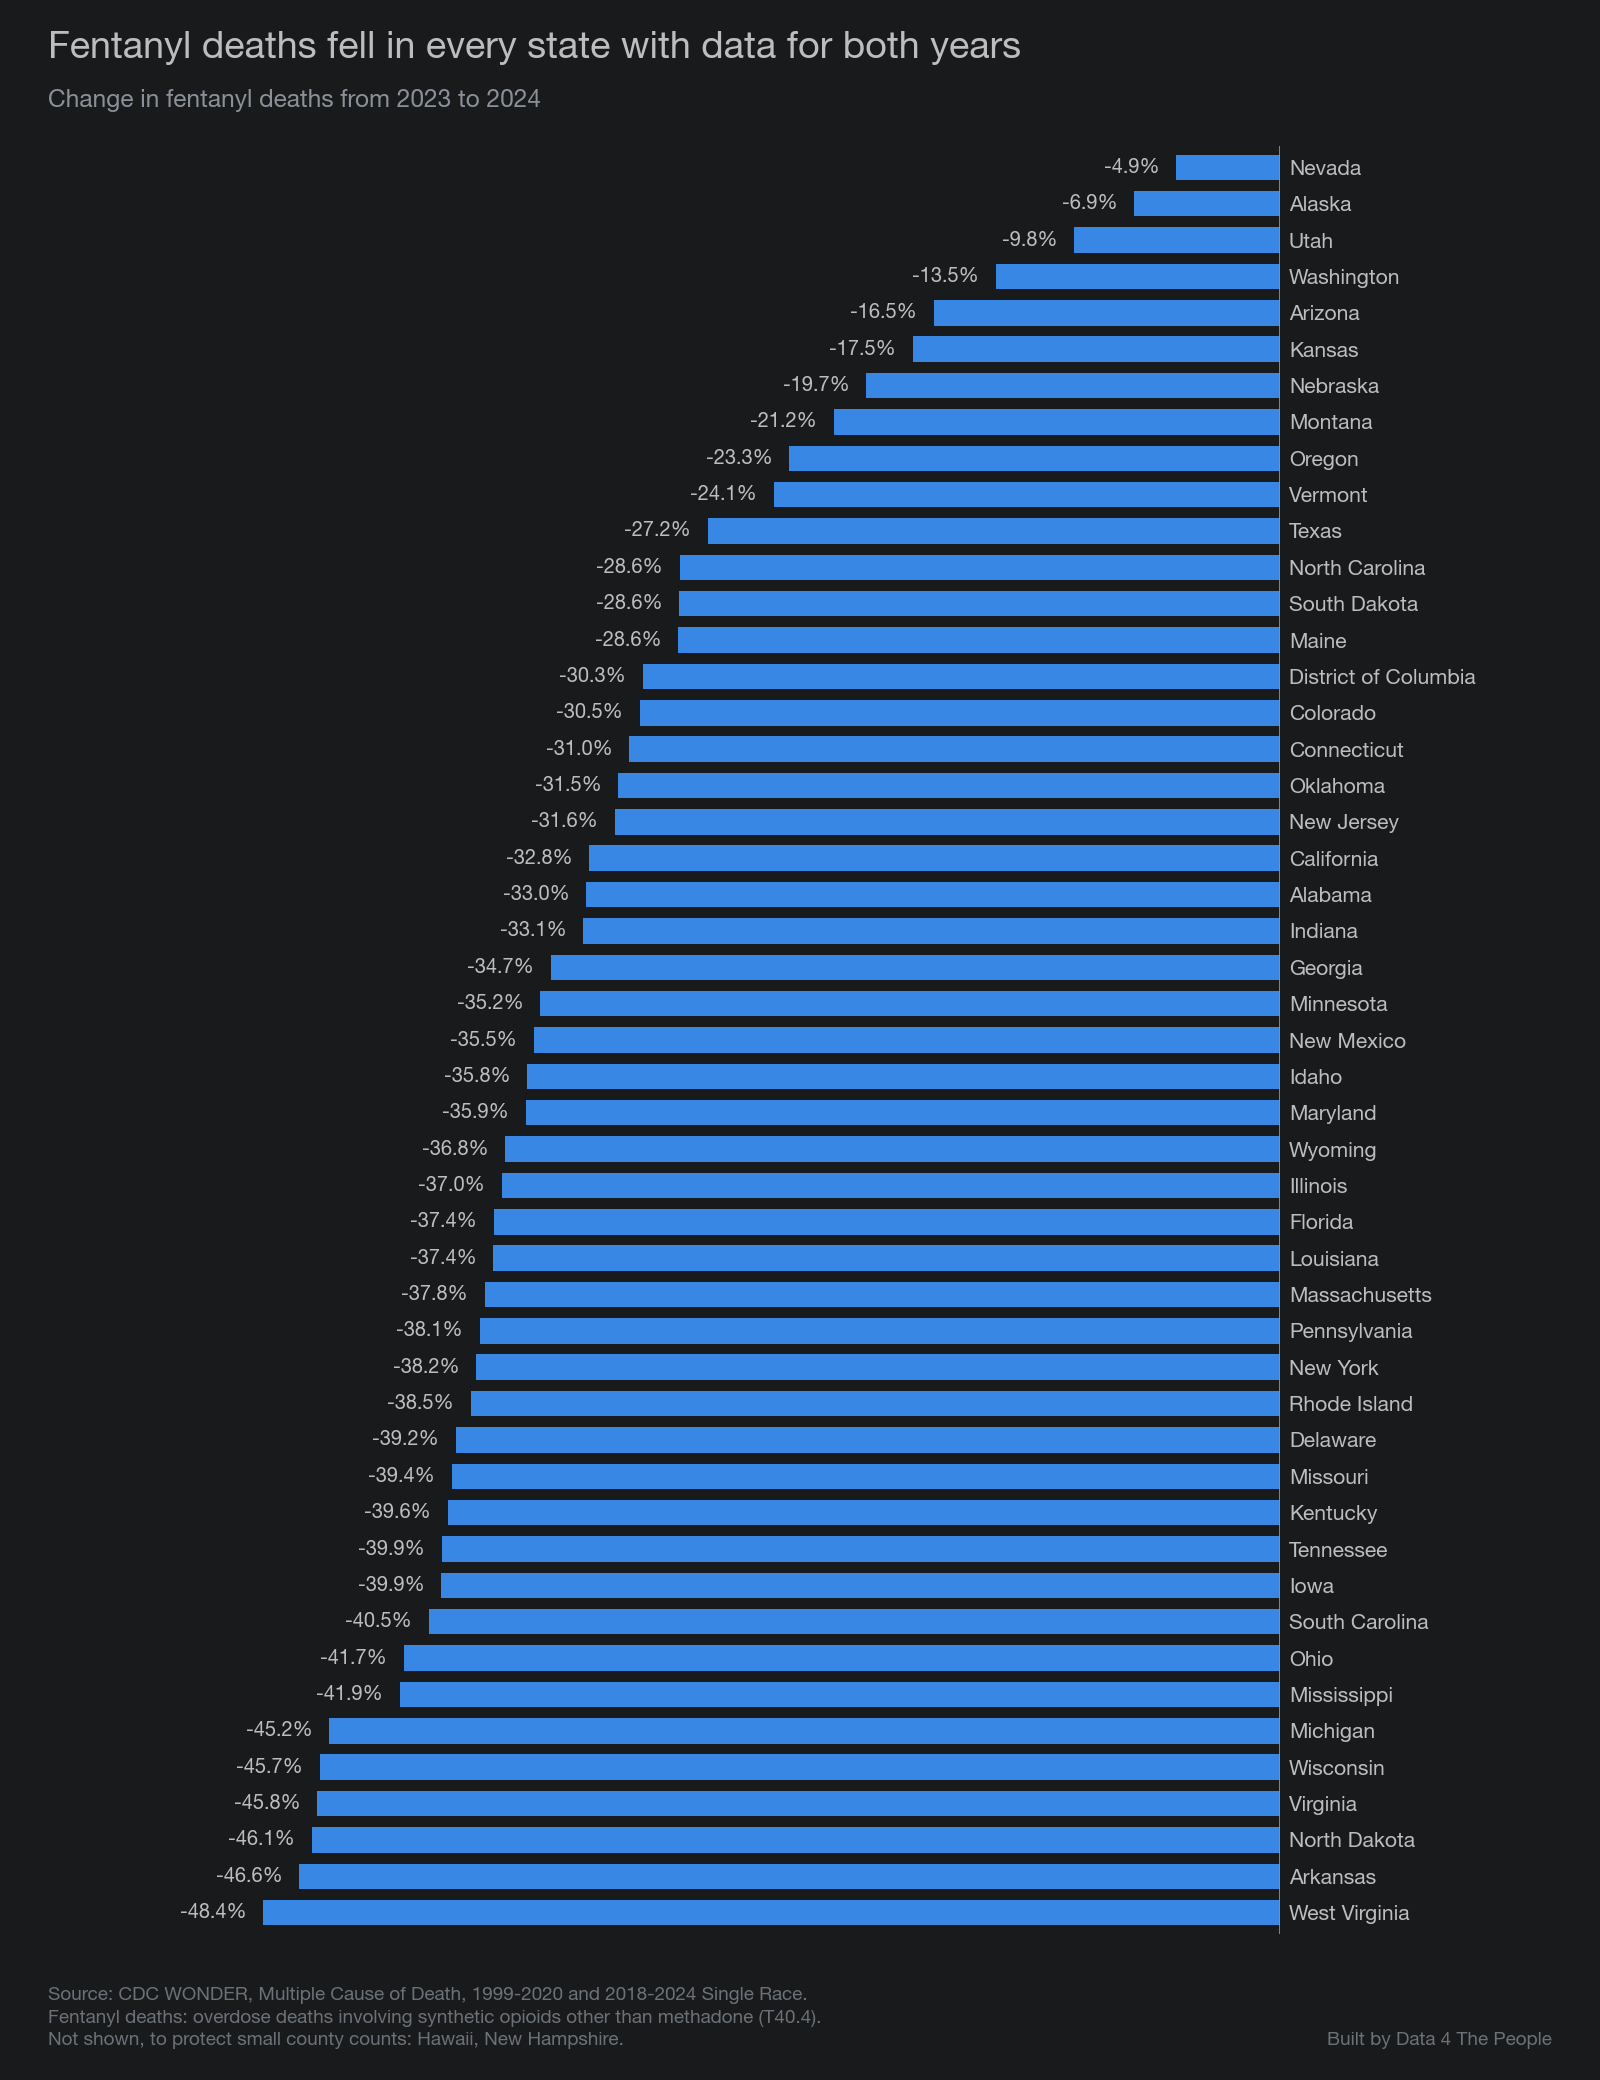
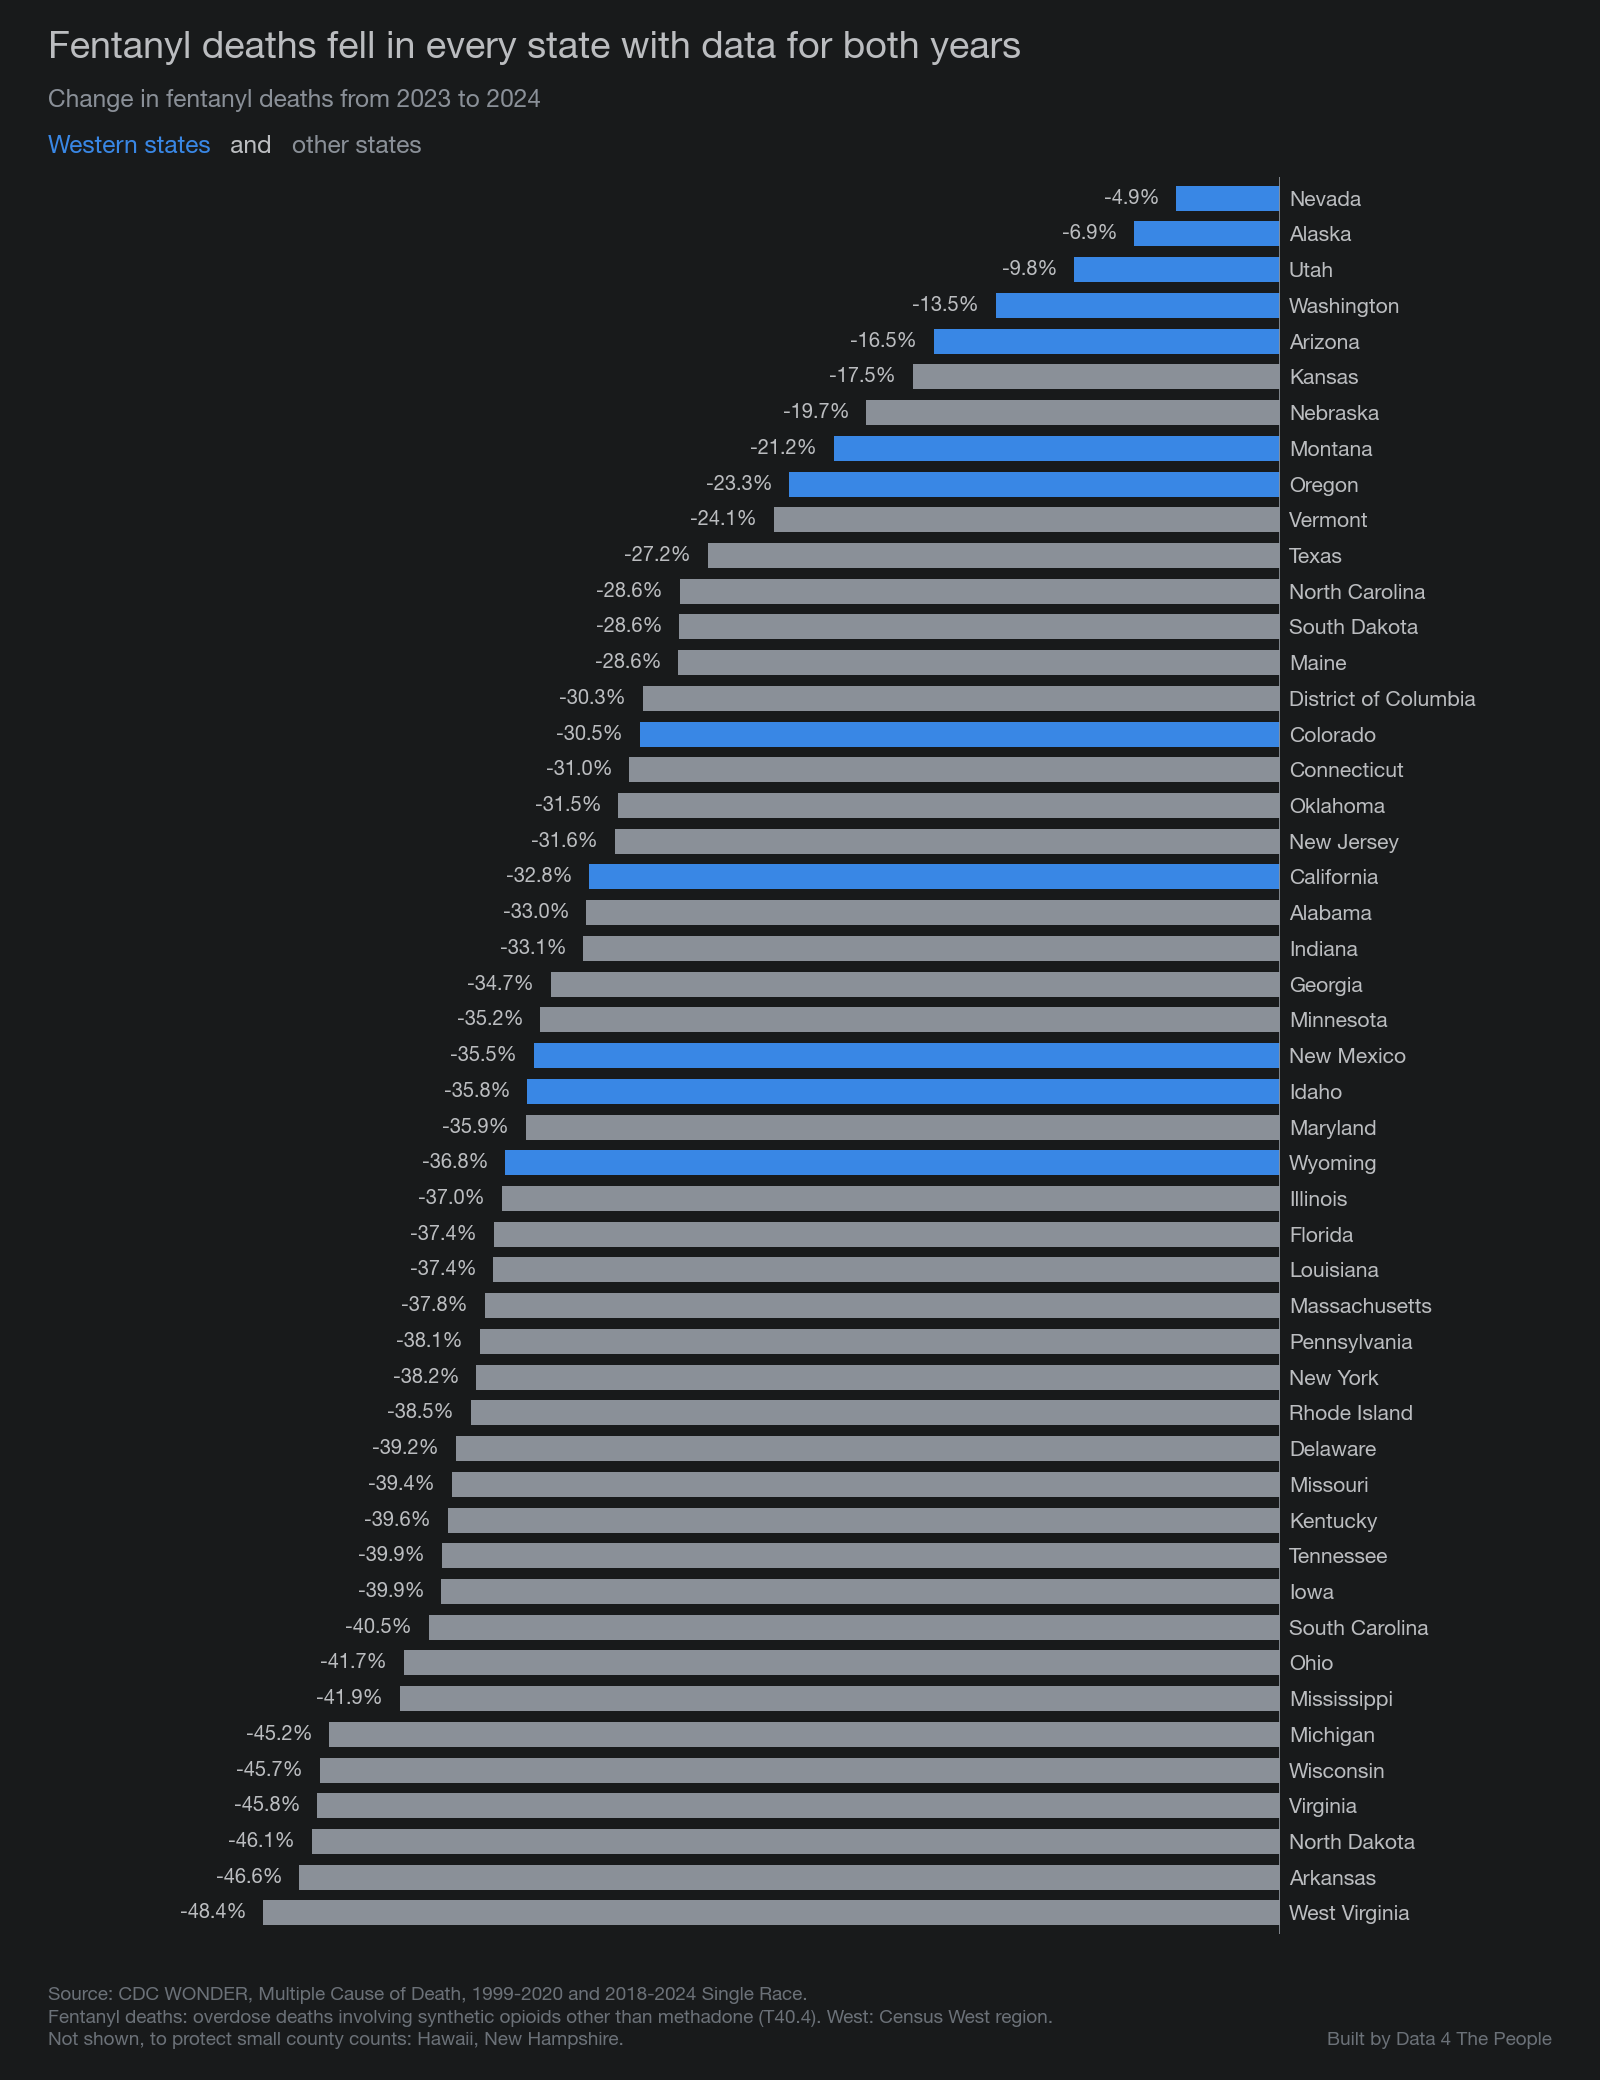
fentanyl-deaths-by-county: Western states colored in the state chart

diff --git a/scripts/post_charts.py b/scripts/post_charts.py
@@ -30,6 +30,7 @@ BLUE, YELLOW, MAGENTA = "#3987e5", "#c98500", "#d55181"  # the validated dark tr
 CREDIT = "Built by Data 4 The People"
 SRC = "Source: CDC WONDER, Multiple Cause of Death, 1999-2020 and 2018-2024 Single Race."
 FEN_NOTE = "Fentanyl deaths: overdose deaths involving synthetic opioids other than methadone (T40.4)."
+WEST_FIPS = {"02", "04", "06", "08", "15", "16", "30", "32", "35", "41", "49", "53", "56"}  # same states as WEST
 WEST = {"AK", "AZ", "CA", "CO", "HI", "ID", "MT", "NM", "NV", "OR", "UT", "WA", "WY"}  # Census West region
 
 mpl.rcParams.update({
@@ -178,28 +179,30 @@ def chart_peaks(n=10):
 # ---- 04: state change 2023 to 2024
 def chart_states():
     a, b = ix(2023), ix(2024)
-    st = sorted((((g["d"][b] - g["d"][a]) / g["d"][a] * 100, g["n"]) for g in D["states"].values()
+    st = sorted((((g["d"][b] - g["d"][a]) / g["d"][a] * 100, g["n"], fips in WEST_FIPS) for fips, g in D["states"].items()
                  if g["d"][a] and g["d"][b]), reverse=True)
     missing = sorted(g["n"] for g in D["states"].values() if not (g["d"][a] and g["d"][b]))
     fig, ax = plt.subplots(figsize=(10, 13))
     fig.subplots_adjust(left=0.24, right=0.95, top=0.905, bottom=0.06)
-    lo = min(p for p, _ in st)
-    for k, (p, n) in enumerate(st):
-        ax.barh(k, p, height=0.7, color=BLUE)
+    lo = min(p for p, _, _ in st)
+    for k, (p, n, w) in enumerate(st):
+        ax.barh(k, p, height=0.7, color=BLUE if w else INK_DIM)
         ax.text(p - 0.8, k, f"{p:.1f}%", va="center", ha="right", fontsize=9, color=INK)
-    ax.set_yticks(range(len(st)), [n for _, n in st], fontsize=9.5, color=INK)
+    ax.set_yticks(range(len(st)), [n for _, n, _ in st], fontsize=9.5, color=INK)
     ax.yaxis.tick_right(); ax.tick_params(axis="y", pad=4)
     ax.set_yticks(range(len(st)))
-    ax.set_yticklabels([n for _, n in st])
+    ax.set_yticklabels([n for _, n, _ in st])
     ax.set_ylim(len(st) - 0.4, -0.6)
     ax.set_xlim(lo * 1.18, 0)
     ax.axvline(0, color=INK_DIM, lw=0.8)
     ax.set_xticks([]); ax.spines["bottom"].set_visible(False); ax.spines["left"].set_visible(False)
     ax.tick_params(length=0)
-    fig.subplots_adjust(left=0.05, right=0.80, top=0.93, bottom=0.07)
+    fig.subplots_adjust(left=0.05, right=0.80, top=0.915, bottom=0.07)
     titleblock(fig, "Fentanyl deaths fell in every state with data for both years",
                "Change in fentanyl deaths from 2023 to 2024", y=0.985)
-    credit(fig, SRC + "\n" + FEN_NOTE + "\nNot shown, to protect small county counts: " + ", ".join(missing) + ".")
+    words(fig, 0.03, 0.935, [("Western states", BLUE), ("   and   ", INK), ("other states", INK_DIM)])
+    credit(fig, SRC + "\n" + FEN_NOTE + " West: Census West region.\nNot shown, to protect small county counts: "
+           + ", ".join(missing) + ".")
     save(fig, "05-state-change-2024.png")
 
 

diff --git a/posts/fentanyl-deaths-by-county/POST.md b/posts/fentanyl-deaths-by-county/POST.md
@@ -109,7 +109,7 @@ Fentanyl deaths fell from 72,776 in 2023 to 47,735 in 2024. The death rate fell 
 
 **Every state with numbers for both years fell.** That is 49 states, counting DC. Hawaii's 2024 total and New Hampshire's 2023 total are not shown, to protect small county counts. The largest drops were in West Virginia (down 48.4%), Arkansas (46.6%), North Dakota (46.1%), Virginia (45.8%) and Wisconsin (45.7%). The smallest were in the West: Nevada (down 4.9%), Alaska (6.9%), Utah (9.8%), Washington (13.5%) and Arizona (16.5%).
 
-![Bar chart of the change in fentanyl deaths from 2023 to 2024 in 49 states, counting DC. Every bar is a decline. West Virginia fell most, 48.4%, then Arkansas, North Dakota, Virginia and Wisconsin. Nevada fell least, 4.9%, then Alaska, Utah, Washington and Arizona. Hawaii and New Hampshire are not shown.](images/05-state-change-2024.png)
+![Bar chart of the change in fentanyl deaths from 2023 to 2024 in 49 states, counting DC. Every bar is a decline. Western states are in blue. West Virginia fell most, 48.4%, then Arkansas, North Dakota, Virginia and Wisconsin. Nevada fell least, 4.9%, then Alaska, Utah, Washington and Arizona, all Western states. Hawaii and New Hampshire are not shown.](images/05-state-change-2024.png)
 *Source: CDC WONDER, Multiple Cause of Death.*
 
 **Nearly every county fell too.** Of 435 counties with 20 or more fentanyl deaths in both 2023 and 2024, 411 (94.5%) had fewer deaths in 2024. Five were unchanged and 19 rose. With a lower bar, 10 or more deaths in both years, 639 of 706 counties (90.5%) fell.
